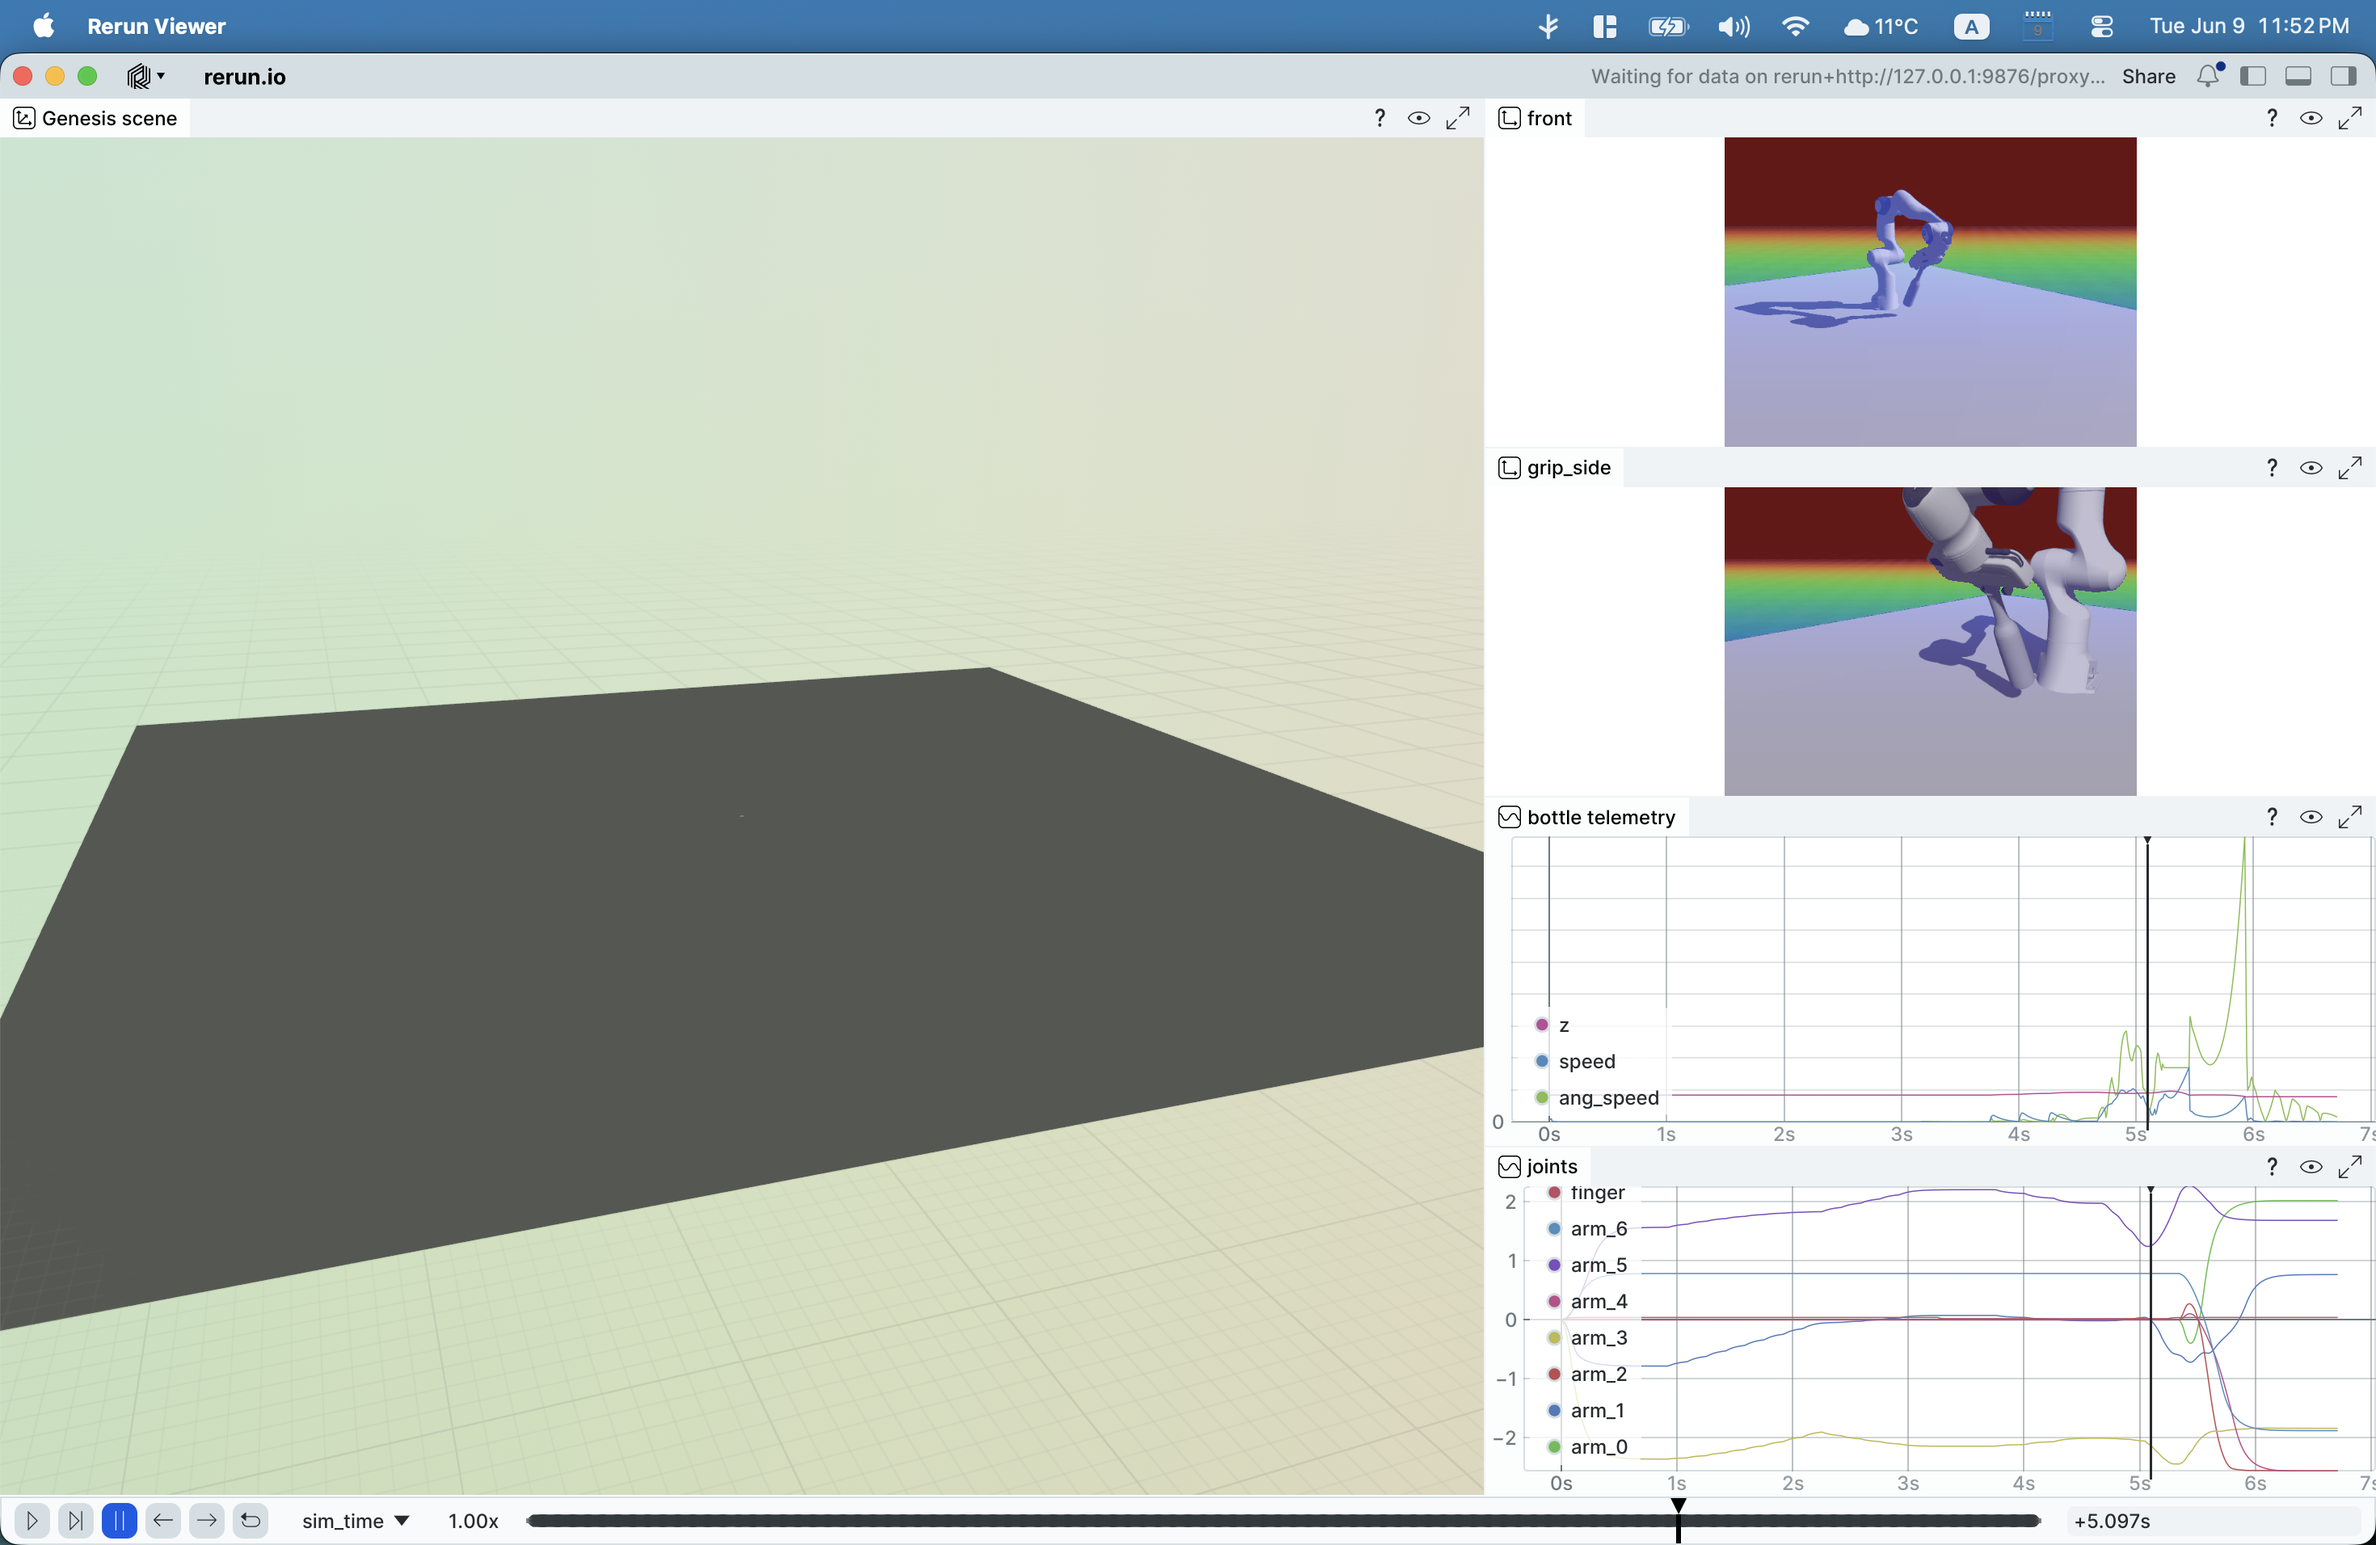
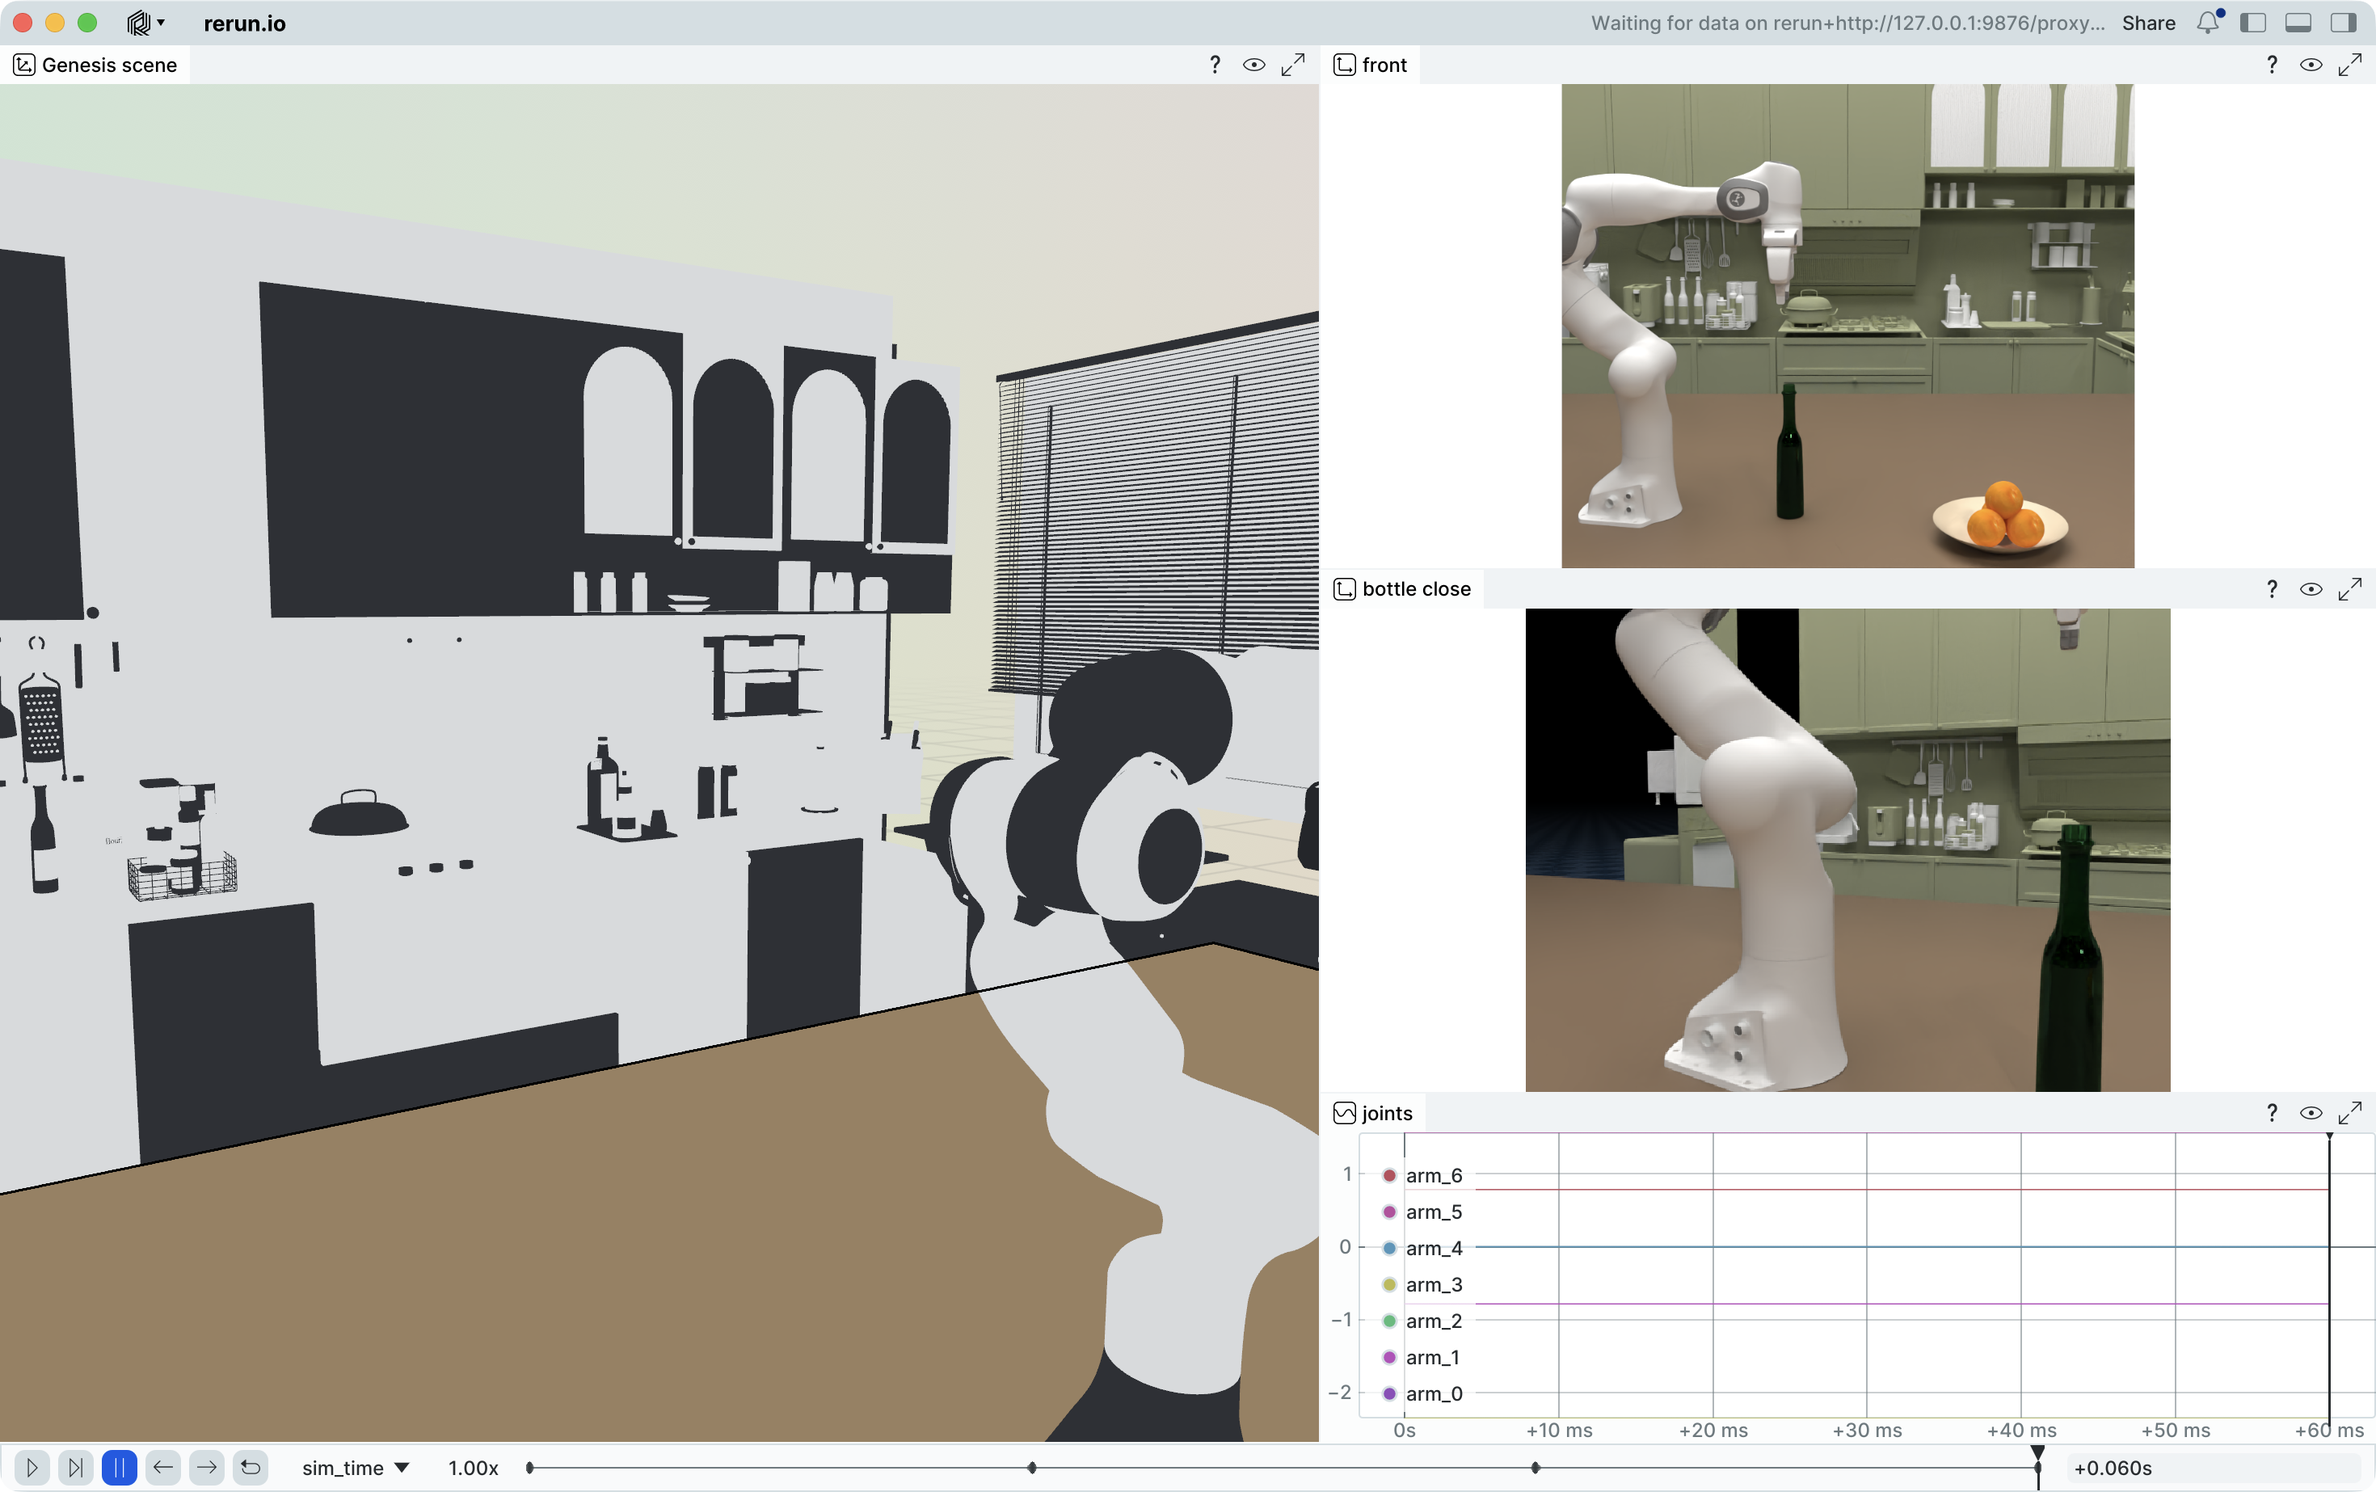
README: single hero — the kitchen scene inside the Rerun viewer
Replace the two images with one screenshot of the actual Rerun viewer, driven
by a single GenesisRerunLogger: the 3D scene panel (Genesis meshes + live
transforms), two raytraced camera RGB streams, and a joint time-series. This is
the on-message shot for a Genesis->Rerun bridge — the bridge's real output, in
Rerun, not a standalone render.

diff --git a/README.md b/README.md
@@ -5,18 +5,12 @@ physics scene into [Rerun](https://rerun.io): link transforms, cameras (RGB + de
 reprojected point clouds), contact forces, IMU, tactile, and lidar — plus static visual
 meshes — with one setup call and one call per step.
 
-![A Genesis scene the bridge logs](docs/genesis_kitchen_hero.png)
+![A Genesis kitchen scene in the Rerun viewer, logged through the bridge](docs/genesis_rerun_viewer.png)
 
-*A Genesis simulation — a Franka Panda, a green glass bottle, and a bowl of oranges in a
-photoreal kitchen, raytraced. `genesis_rerun` streams scenes like this into Rerun: every
-link transform, camera, and sensor, one call per step.*
-
-…and the same kind of recording, live in the Rerun viewer:
-
-![The bridge in the Rerun viewer](docs/genesis_rerun_viewer.png)
-
-*Logged through the bridge: the 3D scene, two camera RGB streams, and bottle/joint time
-series, all under shared `sim_step` / `sim_time` timelines.*
+*One `GenesisRerunLogger` driving the whole Rerun viewer: the **3D scene panel** (Genesis
+meshes + live link transforms), two **camera RGB streams** (raytraced on-GPU), and a
+**joint time-series** — a Franka Panda, a green glass bottle, and a bowl of oranges in a
+kitchen, all under shared `sim_step` / `sim_time` timelines.*
 
 ## Why it exists
 
